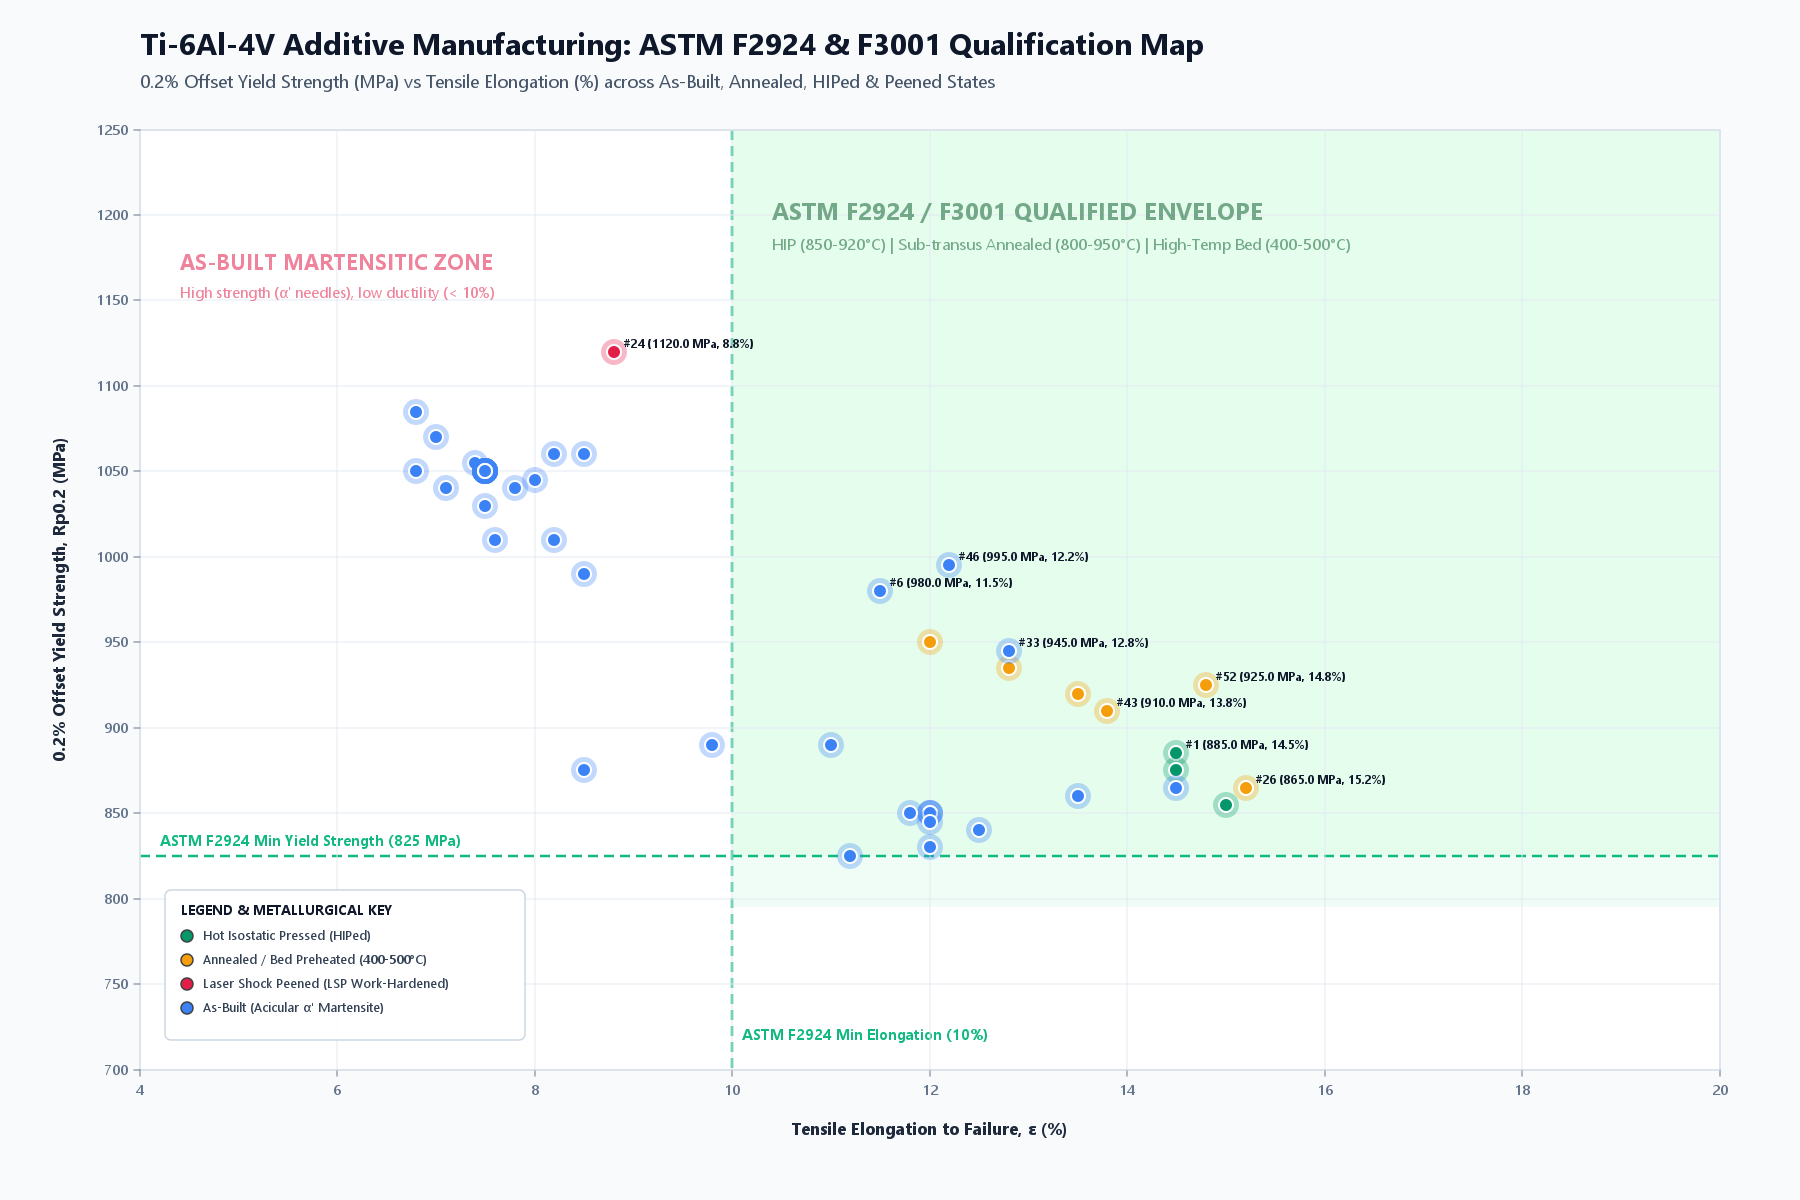
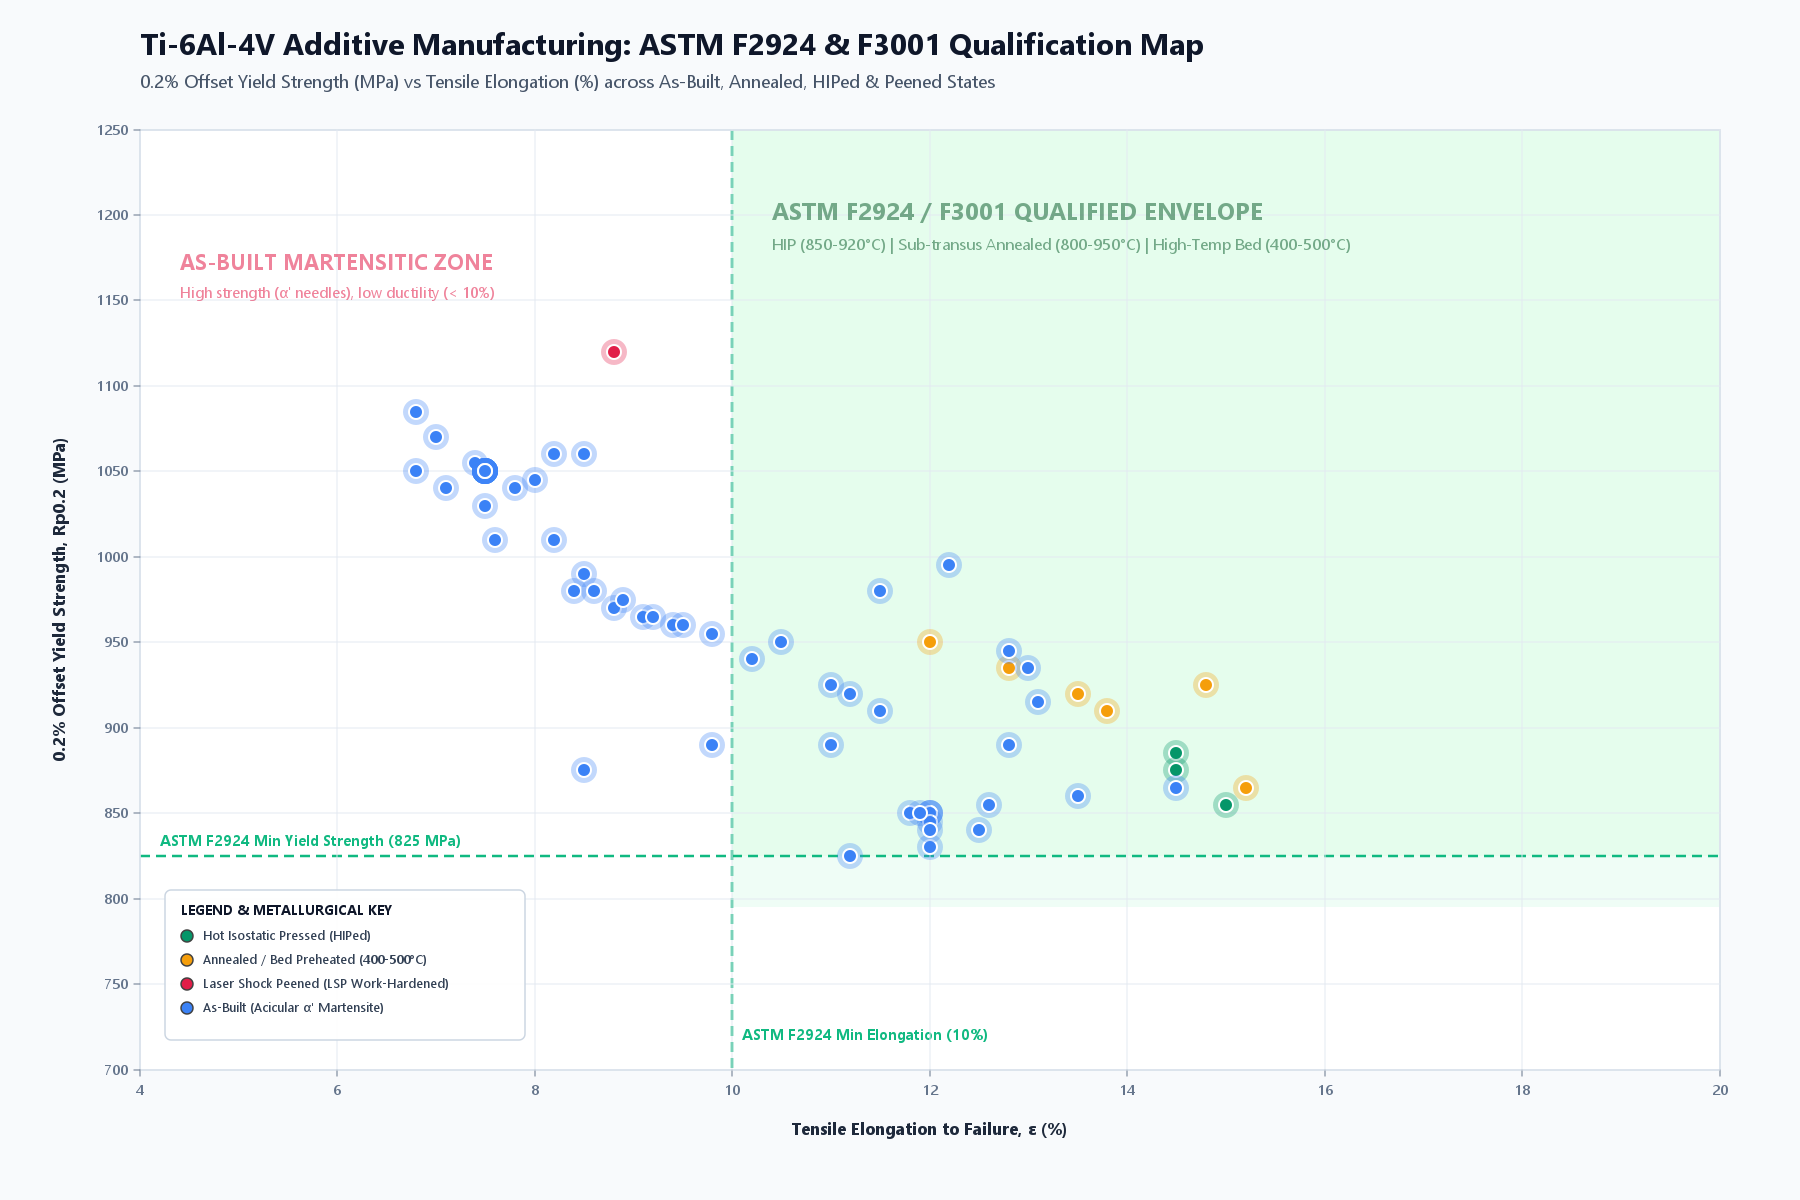
Remove overlapping # paper label text from Ti-6Al-4V process window plots

diff --git a/src/com/nit/am/ProcessWindowPlotter.java b/src/com/nit/am/ProcessWindowPlotter.java
@@ -304,16 +304,6 @@ public class ProcessWindowPlotter {
             g.setStroke(new BasicStroke(1.5f));
             g.drawOval((int) px - 6, (int) py - 6, 12, 12);
 
-            // Key Paper Annotation Tags
-            if (r.paperNumber == 1 || r.paperNumber == 2 || r.paperNumber == 3 ||
-                r.paperNumber == 6 || r.paperNumber == 8 || r.paperNumber == 10 ||
-                r.paperNumber == 37 || r.paperNumber == 43 || r.paperNumber == 52) {
-
-                String tag = "#" + r.paperNumber + " " + getAuthorShort(r.title);
-                g.setFont(new Font("Segoe UI", Font.BOLD, 12));
-                g.setColor(new Color(15, 23, 42));
-                g.drawString(tag, (int) px + 9, (int) py - 6);
-            }
         }
 
         // Draw Legend Box
@@ -448,10 +438,6 @@ public class ProcessWindowPlotter {
             g.setStroke(new BasicStroke(2.0f));
             g.drawOval((int) px - 7, (int) py - 7, 14, 14);
 
-            String tag = "#" + r.paperNumber + " " + getAuthorShort(r.title);
-            g.setFont(new Font("Segoe UI", Font.BOLD, 12));
-            g.setColor(new Color(15, 23, 42));
-            g.drawString(tag, (int) px + 10, (int) py - 6);
         }
 
         drawLegendBox(g, padLeft + 25, padTop + 25, 340, 130, new String[]{
@@ -570,16 +556,6 @@ public class ProcessWindowPlotter {
             g.setStroke(new BasicStroke(2.0f));
             g.drawOval((int) px - 7, (int) py - 7, 14, 14);
 
-            // Annotation for prominent papers
-            if (r.paperNumber == 1 || r.paperNumber == 6 || r.paperNumber == 24 ||
-                r.paperNumber == 26 || r.paperNumber == 33 || r.paperNumber == 43 ||
-                r.paperNumber == 46 || r.paperNumber == 52) {
-
-                String tag = "#" + r.paperNumber + " (" + r.yieldStrengthMpa + " MPa, " + r.elongationPct + "%)";
-                g.setFont(new Font("Segoe UI", Font.BOLD, 12));
-                g.setColor(new Color(15, 23, 42));
-                g.drawString(tag, (int) px + 10, (int) py - 4);
-            }
         }
 
         drawLegendBox(g, padLeft + 25, padTop + plotH - 180, 360, 150, new String[]{
@@ -1037,8 +1013,10 @@ public class ProcessWindowPlotter {
             plotter.plotAshbyQualificationMap(Paths.get(plotsDir, "ti64_astm_qualification_ashby_map.png").toString());
             plotter.plotEnergyDensityTradeoff(Paths.get(plotsDir, "ti64_energy_density_density_tradeoff.png").toString());
 
-            // Generate Interactive HTML Dashboard
-            plotter.generateHtmlDashboard(Paths.get(workspace, "process_windows_dashboard.html").toString());
+            // Never overwrite the live upgraded process_windows_dashboard.html unless explicitly requested
+            if (Arrays.asList(args).contains("--generate-html")) {
+                plotter.generateHtmlDashboard(Paths.get(workspace, "process_windows_dashboard.html").toString());
+            }
 
             System.out.println("All 4 plots and interactive dashboard successfully generated in pure Java!");
 
